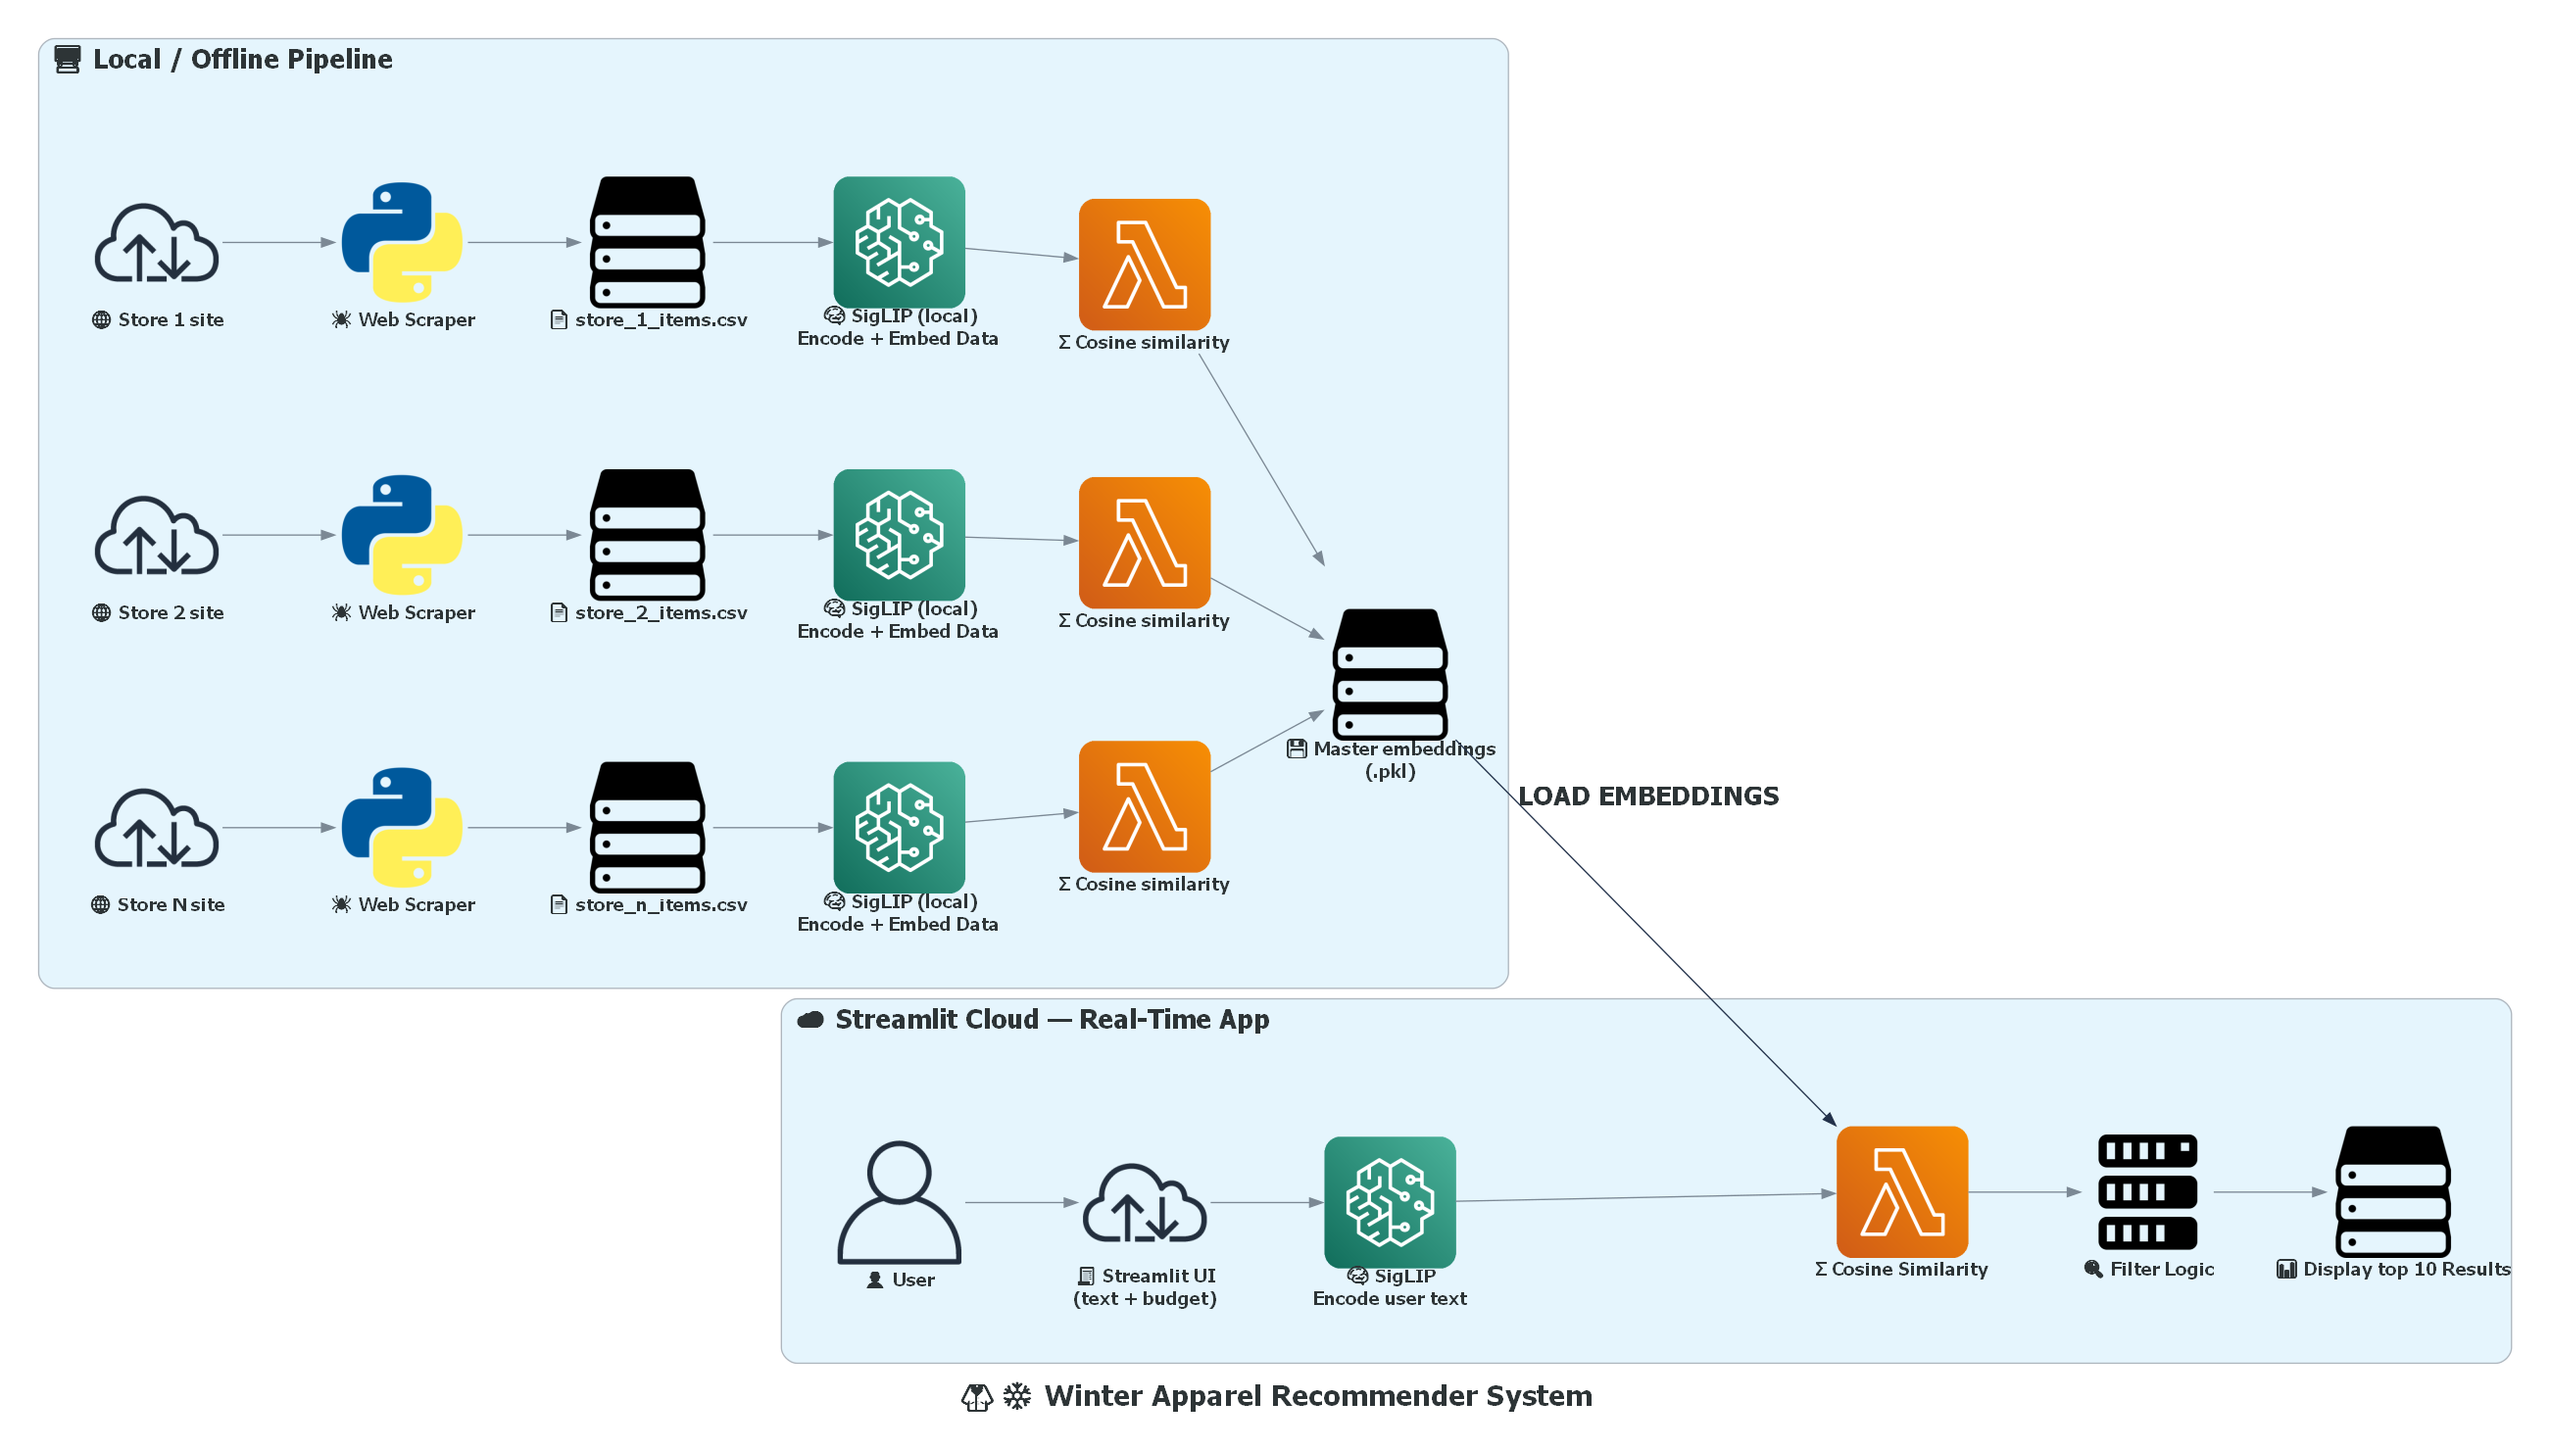
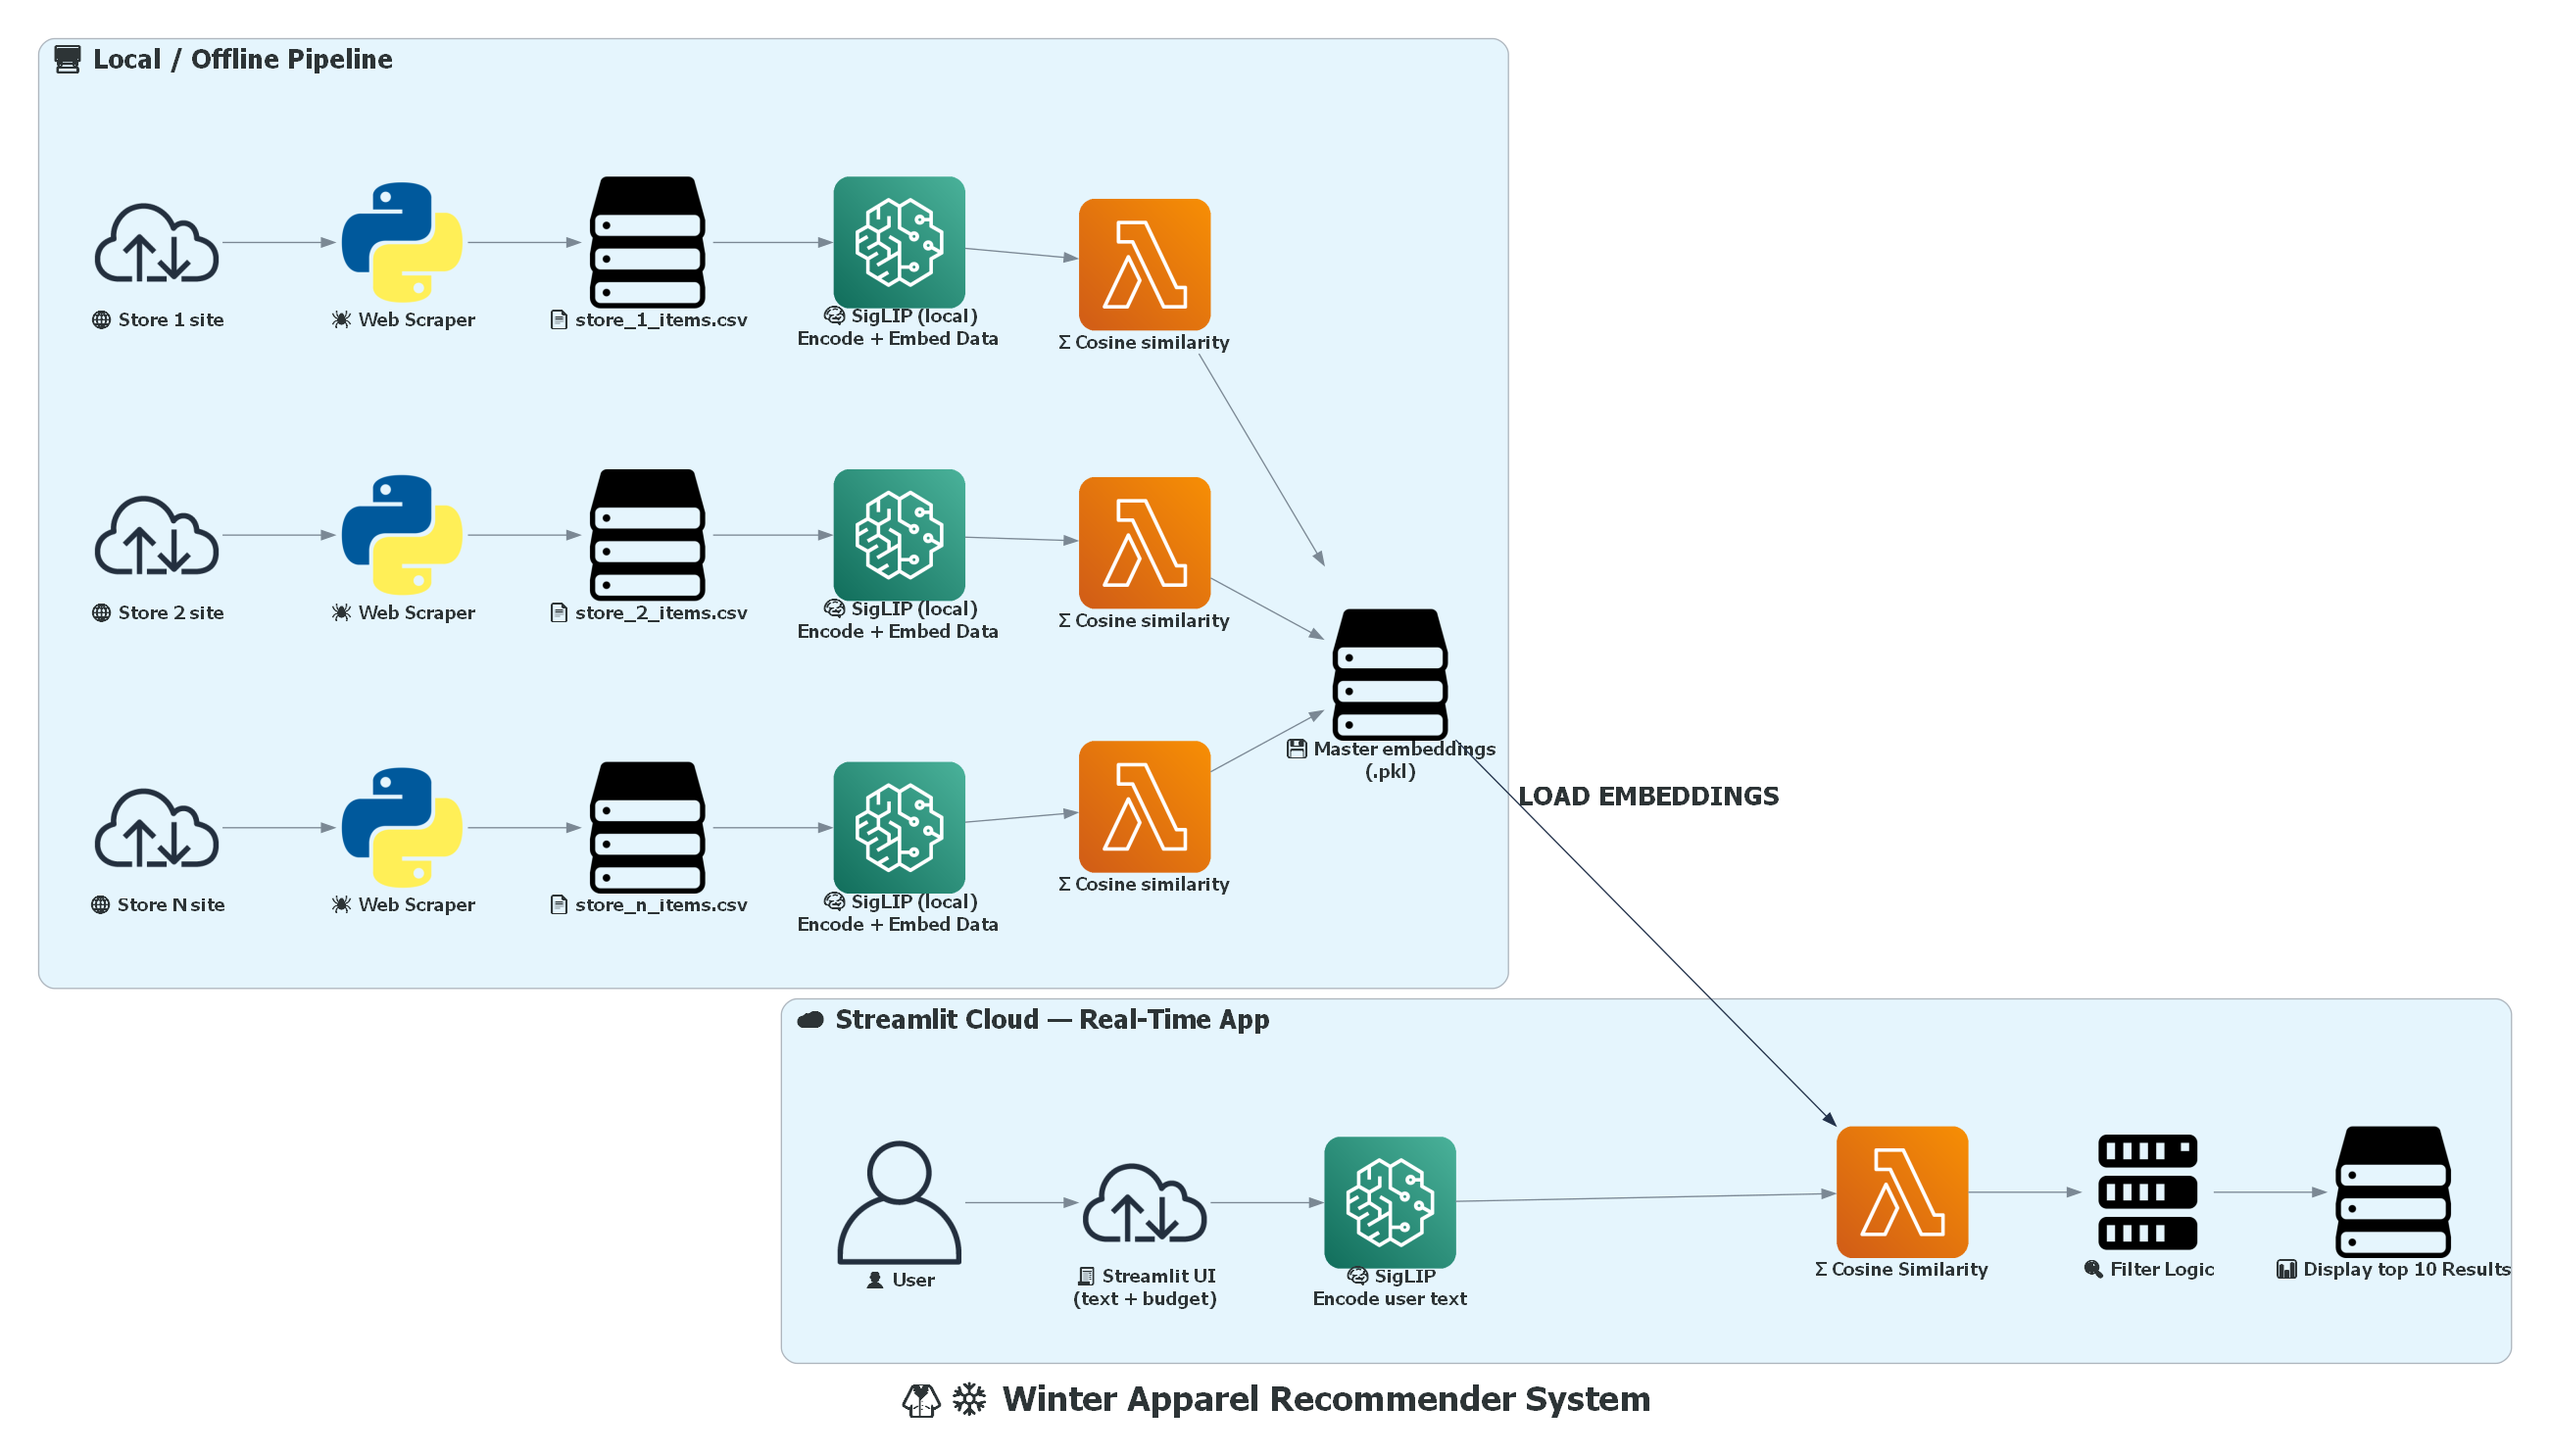
modified readme and regenerate font size for png

diff --git a/README.md b/README.md
@@ -2,15 +2,11 @@
 
 > **COZY (Comfy Outfits Zoned for You)** is a **content-based clothing recommender** that uses [SigLIP](https://huggingface.co/docs/transformers/model_doc/siglip) to jointly encode text and images into a shared embedding space. Users describe what they're looking for, set a price budget, and receive the top 10 most relevant clothing items — all in real time via a Streamlit app.
 
----
-
 ## 💡 Purpose
 
-This project was developed to help my sibling prepare for winter, as she currently has limited warm outerwear suitable for both **work** and **casual** settings. Instead of spending time browsing multiple retailer websites — each with inconsistent product naming, page layouts, and filtering tools, I built a single interface that searches across stores and returns the most relevant items based on a natural-language description of what she needs.
+This project was developed to help my sister prepare for winter, as she currently has limited warm outerwear suitable for both **work** and **casual** settings. Instead of spending time browsing multiple retailer websites — each with inconsistent product naming, page layouts, and filtering tools, I built a single interface that searches across stores and returns the most relevant items based on a natural-language description of what she needs.
 
 Beyond solving a personal need, this project also served as a hands-on exploration of **multimodal representation learning**. It uses **SigLIP** — a vision-language model that embeds text and images into a shared latent space — to generate **dense vector embeddings** for both product listings and user queries. Recommendations are then ranked using **cosine similarity** over these embeddings, making it a clear example of **content-based filtering** without relying on user history, purchase data, or explicit ratings. Because the catalogue is built from **live-scraped listings**, the results stay aligned with what’s actually available and at what price, rather than depending on static datasets.
-
----
 
 ## 📌 Table of Contents
 
@@ -27,8 +23,6 @@ Beyond solving a personal need, this project also served as a hands-on explorati
   - [Running the App](#running-the-app)
 - [Usage](#usage)
 
----
-
 ## Overview
 
 This project is a **multimodal content-based recommender system** for winter clothing items (specifically **knitwear** such as **jumpers, sweaters, and sweatshirts**). Unlike collaborative filtering approaches, it requires **no user history** — recommendations are driven entirely by the semantic and visual similarity between a user's text query and the scraped product catalogue.
@@ -38,8 +32,6 @@ Key characteristics:
 - **No cold-start problem** — works immediately with newly scraped items.
 - **Scales dynamically** — as more products are scraped, the recommendation pool grows without retraining.
 - **Multimodal understanding** — captures both visual style (from product images) and semantic meaning (from text descriptions) using SigLIP.
-
----
 
 ## How It Works
 
@@ -79,8 +71,6 @@ This is the **online / real-time** stage that the end user interacts with.
 5. The **top 10 most similar items** are displayed in a dataframe on the UI.
 
 Each new query triggers a fresh encode + embed → similarity → filter → display cycle in real time.
-
----
 
 ## Tech Stack
 
@@ -123,8 +113,6 @@ Each new query triggers a fresh encode + embed → similarity → filter → dis
 └── README.md
 ```
 
----
-
 ## Getting Started
 
 ### Prerequisites
@@ -137,8 +125,8 @@ Each new query triggers a fresh encode + embed → similarity → filter → dis
 
 ```bash
 # 1. Clone the repository
-git clone https://github.com/<your-username>/<your-repo-name>.git
-cd <your-repo-name>
+git clone https://github.com/nonDuck3/cozy-recommender.git
+cd cozy-recommender
 
 # 2. Create and activate a virtual environment
 python -m venv venv
@@ -162,8 +150,6 @@ python main.py "https://www.uniqlo.com/au/en/women/knitwear" "uniqlo" "C:/Users/
 # Launch the Streamlit recommender
 streamlit run app.py
 ```
-
----
 
 ## Usage
 
